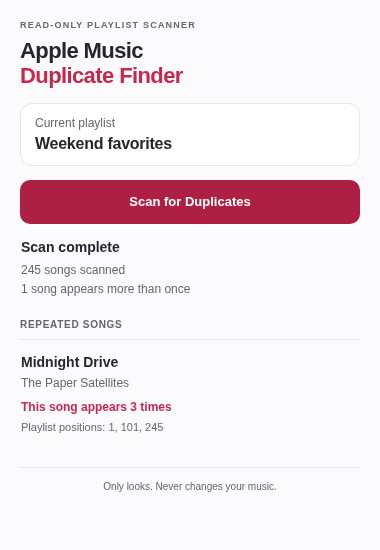
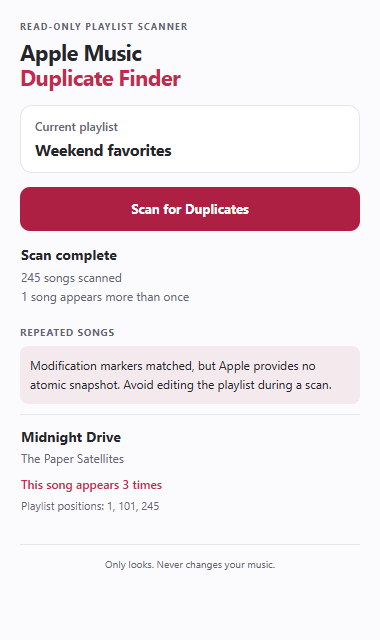
Fix post-audit findings

diff --git a/tests/musickit-bridge.test.ts b/tests/musickit-bridge.test.ts
@@ -163,7 +163,25 @@ test('navigation before and during a request invalidates it', async () => {
 });
 test('catalog routes use the same MusicKit integration, never a library-name search', async () => {
   const { win, calls } = setup(() => ({ data: [] }), { storefrontId: 'gb' });
-  const catalog = { ...playlist, id: 'pl.abc', kind: 'catalog' as const, pathname: '/gb/playlist/mix/pl.abc' };
+  const catalog = { ...playlist, id: 'pl.abc', kind: 'catalog' as const,
+    storefront: 'gb', pathname: '/gb/playlist/mix/pl.abc' };
+  win.location.pathname = catalog.pathname;
+  assert.equal((await musicKitBridge({ action: 'tracks', playlist: catalog, offset: 0 })).ok, true);
+  assert.equal(calls[0], '/v1/catalog/gb/playlists/pl.abc/tracks?limit=100&offset=0');
+});
+test('catalog routes prefer the visible storefront over the player storefront', async () => {
+  const { win, calls } = setup(() => ({ data: [] }), { storefrontId: 'gb' });
+  const catalog = { ...playlist, id: 'pl.abc', kind: 'catalog' as const,
+    storefront: 'us', pathname: '/us/playlist/mix/pl.abc' };
+  win.location.pathname = catalog.pathname;
+  assert.deepEqual(await musicKitBridge({ action: 'tracks', playlist: catalog, offset: 0 }),
+    { ok: true, data: { tracks: [], total: null, nextOffset: null } });
+  assert.equal(calls[0], '/v1/catalog/us/playlists/pl.abc/tracks?limit=100&offset=0');
+});
+test('catalog routes fall back to the player storefront only when the route omits one', async () => {
+  const { win, calls } = setup(() => ({ data: [] }), { storefrontId: 'gb' });
+  const catalog = { ...playlist, id: 'pl.abc', kind: 'catalog' as const,
+    storefront: null, pathname: '/playlist/mix/pl.abc' };
   win.location.pathname = catalog.pathname;
   assert.equal((await musicKitBridge({ action: 'tracks', playlist: catalog, offset: 0 })).ok, true);
   assert.equal(calls[0], '/v1/catalog/gb/playlists/pl.abc/tracks?limit=100&offset=0');

diff --git a/src/musickit-bridge.ts b/src/musickit-bridge.ts
@@ -64,9 +64,11 @@ export async function musicKitBridge(request: BridgeRequest): Promise<BridgeRepl
 
     const playlist = request.playlist;
     if (!/^(p|pl)\.[A-Za-z0-9-]+$/.test(playlist.id)) fail('NOT_PLAYLIST');
-    const storefront = typeof instance.storefrontId === 'string' && /^[a-z]{2}$/.test(instance.storefrontId)
-      ? instance.storefrontId : playlist.storefront;
-    if (playlist.kind === 'catalog' && (!storefront || !/^[a-z]{2}$/.test(storefront))) fail('NOT_PLAYLIST');
+    // The visible route is authoritative. Only fall back to the player's
+    // storefront when the route does not carry one.
+    const storefront = [playlist.storefront, instance.storefrontId]
+      .find((value): value is string => typeof value === 'string' && /^[a-z]{2}$/.test(value)) ?? null;
+    if (playlist.kind === 'catalog' && !storefront) fail('NOT_PLAYLIST');
     const base = playlist.kind === 'library' ? '/v1/me/library/playlists/' + playlist.id :
       '/v1/catalog/' + storefront + '/playlists/' + playlist.id;
     if (request.action === 'tracks' && (!Number.isSafeInteger(request.offset) || request.offset < 0)) fail('FORMAT');

diff --git a/src/popup.ts b/src/popup.ts
@@ -68,8 +68,9 @@ function appendGroups(): void {
   }
   list.append(fragment);
   displayed = end;
+  const remaining = Math.min(batchSize, groups.length - displayed);
   showMore.hidden = displayed === groups.length;
-  showMore.textContent = `Show ${number(Math.min(batchSize, groups.length - displayed))} more songs`;
+  showMore.textContent = `Show ${number(remaining)} more ${remaining === 1 ? 'song' : 'songs'}`;
   element('results-title').textContent = displayed < groups.length ?
     `Repeated songs · ${number(displayed)} of ${number(groups.length)} shown` : 'Repeated songs';
   results.hidden = groups.length === 0;

diff --git a/docs/TESTING.md b/docs/TESTING.md
@@ -10,12 +10,12 @@ npm run check
 npm run audit
 ```
 
-The expanded suites contain **64 unit tests**, **46 browser fixture scenarios**, and an installed-extension smoke suite. They cover:
+The expanded suites contain **66 unit tests**, **48 browser fixture scenarios**, and an installed-extension smoke suite. They cover:
 
 - Exact identifier matching, missing/conflicting identifiers, original order, and 10,000-entry inputs.
 - Pagination beyond 100 entries, exact page boundaries, short pages, changing totals, and final metadata validation.
-- Legacy `api.get()` and v3 `api.music()` response shapes, timeouts, failed HTTP wrappers, and errors after partial retrieval.
-- Popup progress, recovery, safe text rendering, unknown-identity warnings, and batches of results.
+- Legacy `api.get()` and v3 `api.music()` response shapes, timeouts, failed HTTP wrappers, errors after partial retrieval, and catalog storefront precedence.
+- Popup progress, recovery, safe text rendering, unknown-identity warnings, batches of results, and singular remaining-batch text.
 - Icon paths and dimensions, keyboard focus, and document scrolling down to 300 × 300 pixels in light and dark modes.
 - The 50,000-entry boundary, metadata/page budgets, overall deadlines during metadata/pages/final validation, prompt cancellation, late replies, and independent concurrent scans.
 - Reordering, replacing, renaming, adding, and removing entries via changed metadata markers, and explicit unverified-consistency status when markers are absent.
@@ -27,13 +27,19 @@ Browser fixtures use mocked Apple Music responses and a Chrome API adapter. They
 
 The smoke suite opens one real toolbar popup and reloads its document between fixture scenarios, asserting a new document and cleared results before each scenario. This avoids a Windows native-widget close/reopen race in the test harness. It does not alter the production popup or prevent it from closing when focus is lost.
 
-CI is configured to run all checks on Node 22.8.0 and current Node 22/24/26 on Linux, plus Node 24 on Windows. The test runner compiles with the existing esbuild dependency and uses Node's default file isolation, without `--test-isolation` or tsx. Fixture success does not prove full live Apple Music or branded-browser compatibility.
+CI is configured to run all checks on Node 22.8.0 and current Node 22/24/26 on Linux, plus Node 24 on Windows. The test runner compiles with the existing esbuild dependency and uses Node's default file isolation, without `--test-isolation` or tsx. Repository security settings are enabled for private vulnerability reporting, secret scanning with push protection, Dependabot alerts and security updates, CodeQL default setup, and required CI status checks on `main`. Fixture success does not prove full live Apple Music or branded-browser compatibility.
 
 ### Local implementation verification (2026-10-27)
 
 A clean `npm ci` succeeded. The complete `npm run check` passed on Windows under Node **22.8.0**, **22.23.4**, **24.22.1**, and **26.12.1**, with the unit runner's actual child runtime recorded and checked. Each run included all 64 unit tests, 46 UI fixture scenarios, the actual unpacked-extension smoke suite, the production build, ZIP/content/checksum verification, and static security checks. Browser tests used pinned Chromium 156.0.8078.4 with fictional data and no real Apple Music account.
 
-The complete npm dependency audit reported **zero vulnerabilities**. `actionlint` 1.7.12 accepted the CI workflow, and `git diff --check` passed. GitHub-hosted workflow execution and Linux execution were not performed in this worktree; those remain to be verified when the workflow is run. This records local implementation checks; release publication is documented separately in the v1.1.0 release notes.
+The complete npm dependency audit reported **zero vulnerabilities**. `actionlint` 1.7.12 accepted the CI workflow, and `git diff --check` passed. GitHub-hosted workflow execution and Linux execution were not performed in that local worktree at that time. They have since passed on GitHub Actions for the published commit, including the Linux matrix, the Windows job, and the weekly scheduled run; two earlier branch runs were cancelled by concurrency. This records local implementation checks; release publication is documented separately in the v1.1.0 release notes.
+
+### Post-release audit verification (2026-11-05)
+
+The post-release audit added catalog-storefront precedence and singular remaining-batch regression coverage. The current suite is **66 unit tests** and **48 UI fixture scenarios**. A clean `npm ci`, `npm run audit`, `tsc --noEmit`, and the complete `npm run check` pass locally on Windows with Node **26.12.1**. These fixes have not been pushed or run on GitHub Actions yet. The published v1.1.0 ZIP is unchanged; the local build now contains post-release fixes and must ship as a new version rather than replace the published v1.1.0 asset.
+
+The manifest declares Chrome and Edge **111** as the compatibility floor. Automated browser coverage runs on Playwright's pinned Chromium **156.0.8078.4**; Chrome/Edge 111 remains a declared floor rather than an independently executed compatibility job. Live Apple Music, branded Edge, screen-reader speech, and additional account/region combinations still require manual verification.
 
 ## Manual checks
 

diff --git a/docs/ARCHITECTURE.md b/docs/ARCHITECTURE.md
@@ -10,7 +10,7 @@ The MusicKit bridge makes only read requests. It extracts allowlisted track meta
 
 Track pages are retrieved sequentially, preserving every occurrence and one-based playlist position. The reader validates pagination, returned counts when available, and playlist metadata before accepting a scan. Failed requests or detected inconsistencies invalidate the scan; partial results are discarded.
 
-The bridge prefers MusicKit v3 `api.music()` with an explicit GET method and supports older `api.get()` instances. It never switches APIs to retry a failed request. Each read waits up to 25 seconds. For v3, an AbortSignal is passed through `fetchOptions`; cancellation and timeout request an abort when that player implementation supports it. Legacy or signal-ignoring implementations may finish the request in the page, but late replies and failures cannot advance the cancelled scan or update a later scan. Only the visible playlist route is authoritative; playlist names and the playback queue are never used to select a different playlist.
+The bridge prefers MusicKit v3 `api.music()` with an explicit GET method and supports older `api.get()` instances. It never switches APIs to retry a failed request. Each read waits up to 25 seconds. For v3, an AbortSignal is passed through `fetchOptions`; cancellation and timeout request an abort when that player implementation supports it. Legacy or signal-ignoring implementations may finish the request in the page, but late replies and failures cannot advance the cancelled scan or update a later scan. Only the visible playlist route is authoritative; playlist names and the playback queue are never used to select a different playlist. For catalog playlists, the storefront from that route is preferred; the player's storefront is used only when the route omits one.
 
 Pages contain at most 100 entries. Continuation URLs must name the same playlist's track endpoint with a contiguous offset. When a page has no continuation link, the reader stops if it has reached the reported total. Otherwise, it probes the next offset, even after a short page or an exact page boundary. With no reported total, a well-formed empty page marks exhaustion. An empty page before a known total is reached fails the scan. The reader checks available totals, name, modification date, and optional `playParams.versionHash` again at the end. Changed or lost initial markers invalidate the scan.
 

diff --git a/docs/DEVELOPMENT.md b/docs/DEVELOPMENT.md
@@ -4,7 +4,7 @@
 
 - Node.js 22 (22.8+), 24, or 26 and npm. Use a current patched release; Node.js 24 is a suitable default. Odd-numbered and future major versions are not declared supported.
 - Git to clone the repository, or an extracted GitHub source archive.
-- A desktop Chromium browser for manual testing. Automated tests use the full Chromium browser pinned by the Playwright lockfile.
+- A desktop Chromium browser for manual testing. Automated tests use the full Chromium browser pinned by the Playwright lockfile. The extension manifest declares Chrome/Edge **111** as the minimum; automated fixtures run on the pinned current Chromium, so 111 compatibility remains a declaration rather than a separate automated job.
 
 ## Setup
 
@@ -55,7 +55,7 @@ New builds also generate a `.zip.sha256` sidecar. ZIP entry order and timestamps
 
 ## Continuous integration and dependency review
 
-The CI workflow runs on pushes, pull requests, manual dispatch, and a weekly schedule. Linux jobs exercise Node 22.8.0, current Node 22, 24, and 26; a Windows job exercises Node 24. All jobs use `npm ci`, pinned action commits, read-only repository permissions, and no persisted Git credentials. No job publishes a release or extension.
+The CI workflow runs on pushes, pull requests, manual dispatch, and a weekly schedule. Linux jobs exercise Node 22.8.0, current Node 22, 24, and 26; a Windows job exercises Node 24. All jobs use `npm ci`, pinned action commits, read-only repository permissions, and no persisted Git credentials. No job publishes a release or extension. Branch protection on `main` requires the five CI checks; private vulnerability reporting, secret scanning with push protection, Dependabot alerts/security updates, and CodeQL default setup are enabled.
 
 Dependabot proposes weekly npm and GitHub Actions updates. Review advisories and changelogs, update the lockfile, and run the complete checks before accepting an update. Do not automatically cross TypeScript major versions just to obtain a newer version. See [dependency security notes](DEPENDENCIES.md).
 

diff --git a/docs/DEPENDENCIES.md b/docs/DEPENDENCIES.md
@@ -6,7 +6,7 @@ The implementation review updated esbuild from 0.25.12 to 0.28.2 and Chrome typi
 
 Run `npm run audit` to audit every locked dependency, including development and optional packages. The implementation-time audit reported zero advisories; this is a point-in-time result, not a permanent safety guarantee. There are no accepted advisory exceptions or ignored vulnerabilities in the project.
 
-The weekly CI schedule repeats the audit. Dependabot checks npm packages and pinned GitHub Actions weekly and opens reviewable pull requests. For each update, inspect upstream release notes and advisories, update the lockfile through npm, then run `npm run check` and `npm run audit`. Keep the action pins at reviewed full commit SHAs and verify they belong to the official upstream repository.
+The weekly CI schedule repeats the audit. Dependabot checks npm packages and pinned GitHub Actions weekly and opens reviewable pull requests. Major updates of TypeScript and `@types/node` are ignored because Node typings track the oldest supported Node major and compiler majors require an explicit compatibility decision. For each other update, inspect upstream release notes and advisories, update the lockfile through npm, then run `npm run check` and `npm run audit`. Keep the action pins at reviewed full commit SHAs and verify they belong to the official upstream repository.
 
 Static security checks enforce the exact built-file allowlist, manifest permissions, CSP, safe rendering/network invariants, and selected current-file credential patterns. They never print matched secret values. They are not a full secret-history scanner or a substitute for code review.
 

diff --git a/docs/RELEASING.md b/docs/RELEASING.md
@@ -9,6 +9,7 @@ Releases are prepared from reviewed source, merged through a pull request, and p
 3. Run `npm ci`, install the locked Chromium browser, then run `npm run check` and `npm run audit`. Validate `.github/workflows/ci.yml` with `actionlint`. Check every supported Node major, including the stated minimum where practical.
 4. Review the complete diff from the previous release. Confirm the duplicate matcher, native toolbar popup, styling, safe text rendering, and minimal permissions are preserved. Inspect the exact staged file list and exclude caches, browser profiles, temporary files, account data, and credentials.
 5. Commit and push the feature branch without force-pushing. Open a pull request against `main` with the change summary, executed checks, and known limitations. Resolve failures and wait for all required checks before merging; do not bypass protections.
+6. Confirm repository security settings: private vulnerability reporting enabled, secret scanning and push protection on, Dependabot alerts on, and `main` branch protection requiring the CI check.
 
 ## Package the merged source
 

diff --git a/CHANGELOG.md b/CHANGELOG.md
@@ -1,5 +1,15 @@
 # Changelog
 
+## Unreleased
+
+- Prefer the visible catalog playlist's storefront over the player's storefront, falling back to the player only when the route omits one.
+- Pluralize the remaining-results button correctly when exactly one song is left.
+- Add `default-src 'self'` to the extension-page CSP.
+- Add storefront and singular-batch regression coverage; refresh the README screenshot and verification notes.
+- Configure Dependabot to defer major updates of TypeScript and Node typings to an explicit compatibility review.
+- Route security reports through the security policy, add a pull-request checklist, and document required repository security settings.
+- Enable private vulnerability reporting, secret scanning and push protection, Dependabot alerts and security updates, CodeQL default setup, and required CI checks on `main`.
+
 ## [1.1.0](https://github.com/awishtodiexz/Apple-Music-duplicate-finder/releases/tag/v1.1.0) (2026-10-27)
 
 - Keep Node 22 support with isolated compiled unit tests; remove the version-specific test flag and tsx dependency.

diff --git a/SECURITY.md b/SECURITY.md
@@ -8,7 +8,7 @@ Security reports are accepted for the latest release, currently 1.1.0. This is a
 
 Please **do not publish sensitive security vulnerabilities or exploit instructions in public issues**.
 
-If this repository has GitHub private vulnerability reporting enabled, use its **Security → Report a vulnerability** flow. Otherwise, open a short issue requesting a private reporting channel, without including sensitive details.
+This repository uses GitHub private vulnerability reporting. Use the **Security → Report a vulnerability** flow; do not open a public issue for a sensitive report.
 
 Never send Apple Music passwords, cookies, authorization headers, user tokens, or private playlist contents.
 

diff --git a/.github/pull_request_template.md b/.github/pull_request_template.md
@@ -1,0 +1,11 @@
+## Summary
+
+Describe the problem and the change. Keep the project read-only and the toolbar popup behavior intact.
+
+## Checks
+
+- [ ] `npm run check` passes
+- [ ] `npm run audit` reports no vulnerabilities
+- [ ] Changes include regression coverage for retrieval, matching, or error handling where applicable
+- [ ] No credentials, cookies, private playlist data, or account details are included
+- [ ] README, manifest version, changelog, and release notes remain consistent when versions change

diff --git a/README.md b/README.md
@@ -21,6 +21,8 @@ A free Chrome and Edge extension that shows which songs appear more than once, a
 
 ## Installation
 
+Requires Chrome or Edge 111 or newer.
+
 1. [Download the extension ZIP](https://github.com/awishtodiexz/Apple-Music-duplicate-finder/releases/download/v1.1.0/apple-music-duplicate-finder-v1.1.0.zip) and extract it into a folder you intend to keep.
 2. Open `chrome://extensions` in Chrome or `edge://extensions` in Edge.
 3. Enable **Developer mode**, then choose **Load unpacked**.
